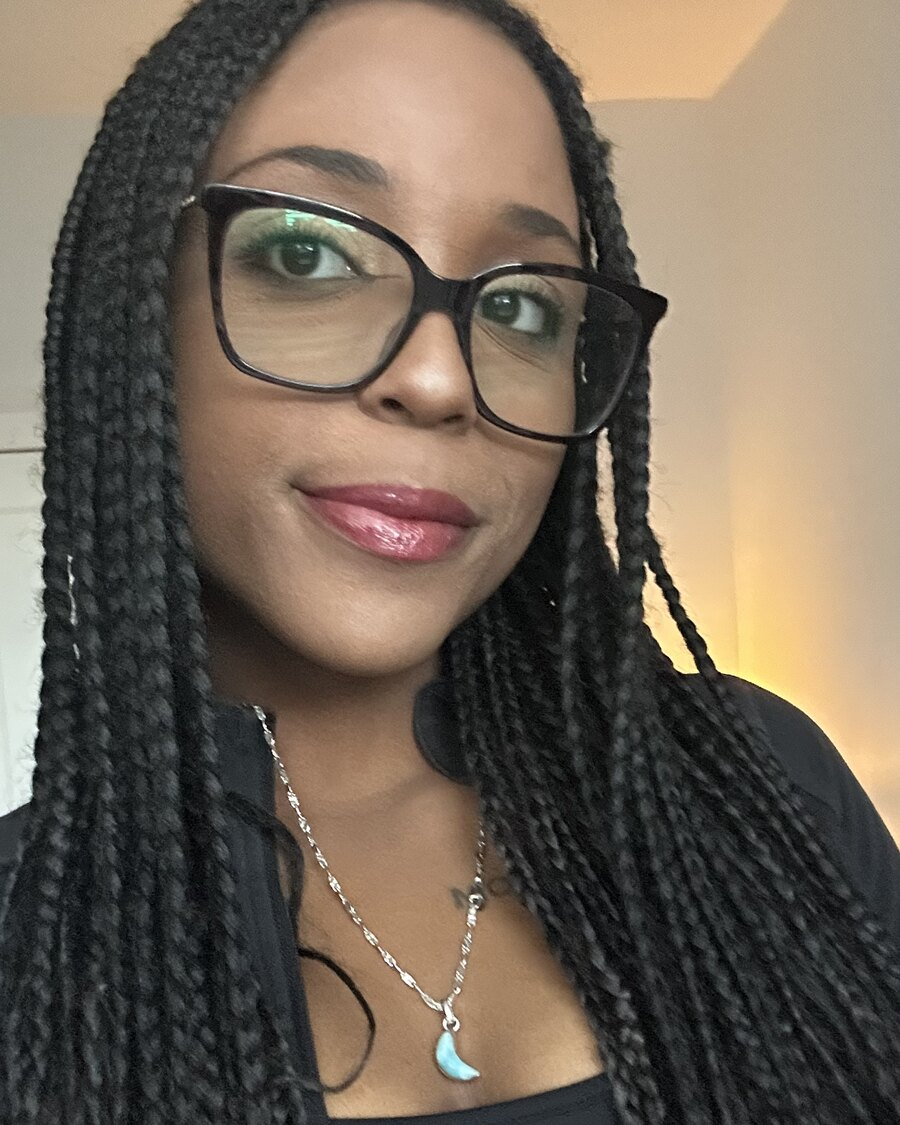
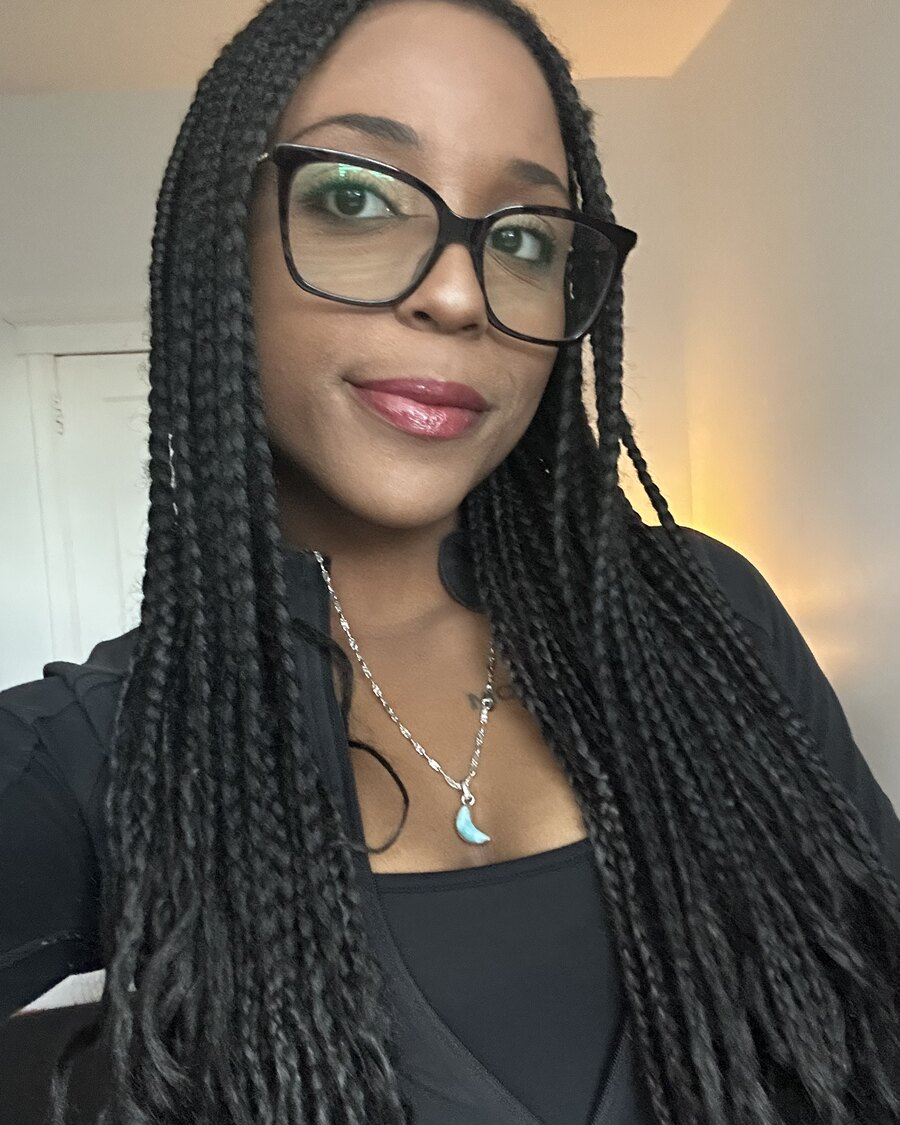
Khaliah bio in third person and wider headshot crop; credit 6 C's to the Lerners; remove mobile registration bar while locked

diff --git a/index.html b/index.html
@@ -2,7 +2,7 @@
 <html lang="en" class="locked">
 <head>
 <meta charset="utf-8" />
-<meta http-equiv="Content-Security-Policy" content="default-src 'self'; script-src 'sha256-jRctCI+vXFyWw+wyyerim7i3ksOgCUMK8DY7u2mhpsQ='; style-src 'self' 'unsafe-inline' https://fonts.googleapis.com; font-src https://fonts.gstatic.com; img-src 'self' data:; connect-src https://formsubmit.co; form-action 'self'; base-uri 'self'; object-src 'none'; upgrade-insecure-requests" />
+<meta http-equiv="Content-Security-Policy" content="default-src 'self'; script-src 'sha256-fNOgCL7bRvdWD9ROSjDNg+Zsu3VaLQyEikETLKNXVNc='; style-src 'self' 'unsafe-inline' https://fonts.googleapis.com; font-src https://fonts.gstatic.com; img-src 'self' data:; connect-src https://formsubmit.co; form-action 'self'; base-uri 'self'; object-src 'none'; upgrade-insecure-requests" />
 <meta name="referrer" content="strict-origin-when-cross-origin" />
 <meta name="robots" content="noindex, nofollow, noimageindex" />
 <meta name="viewport" content="width=device-width, initial-scale=1, viewport-fit=cover" />
@@ -488,7 +488,7 @@
         <article class="value rv"><span class="value__n"><b>C</b>05</span><h3>Caring</h3><p>Showing kindness and empathy to the people around her.</p></article>
         <article class="value rv"><span class="value__n"><b>C</b>06</span><h3>Contribution</h3><p>Giving back to her family, her friends and her community.</p></article>
       </div>
-      <p class="six-src">The 6 C’s come from the Positive Youth Development model used by youth programs like 4-H.</p>
+      <p class="six-src">The 6 C’s come from the Positive Youth Development model created by Dr. Richard Lerner and Dr. Jacqueline Lerner.</p>
     </div>
   </section>
 
@@ -580,7 +580,7 @@
           <div>
             <span class="role">Volunteer</span>
             <h3>Khaliah McIntosh</h3>
-            <p>“I currently attend Vanier College and study special education techniques. I have a background in therapeutic activities, intervention planning, psycho-education and creating adaptations to environments, and I have staged and worked in different special needs schools over the years. I’m very passionate about helping kids reach their full potential, feel confident in their skills, and allowing them the space to grow independently through activities!”</p>
+            <p>She currently attends Vanier College and studies special education techniques. She has a background in therapeutic activities, intervention planning, psycho-education and creating adaptations to environments, and she has staged and worked in different special needs schools over the years. She is very passionate about helping kids reach their full potential, feel confident in their skills, and allowing them the space to grow independently through activities!</p>
           </div>
         </article>
       </div>
@@ -940,7 +940,7 @@
     regSec.classList.add('is-locked');
     $('#regForm').inert = true; $('#regForm').setAttribute('aria-hidden', 'true');
     $('.reg__lead').textContent = 'Registration is closed for now. It opens again before the next session starts.';
-    $('#ctaBar .pill').textContent = 'Registration opens soon';
+    ctaBar.style.display = 'none';
     $('.hero__cta .pill--pink').remove();
   }
   const FORM_TO = 'girlswithpurpose2025@outlook.com';
